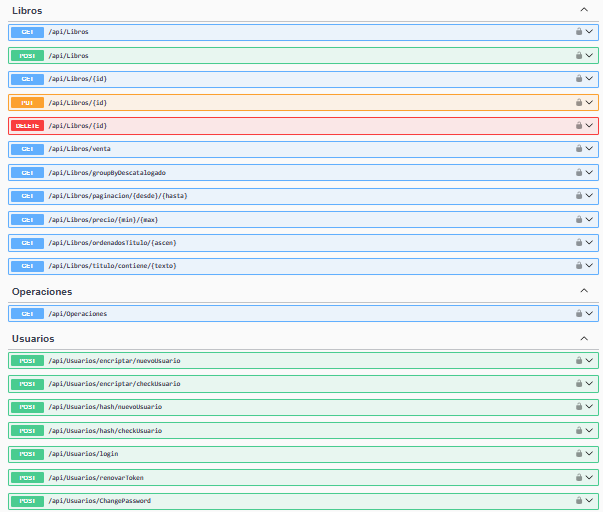
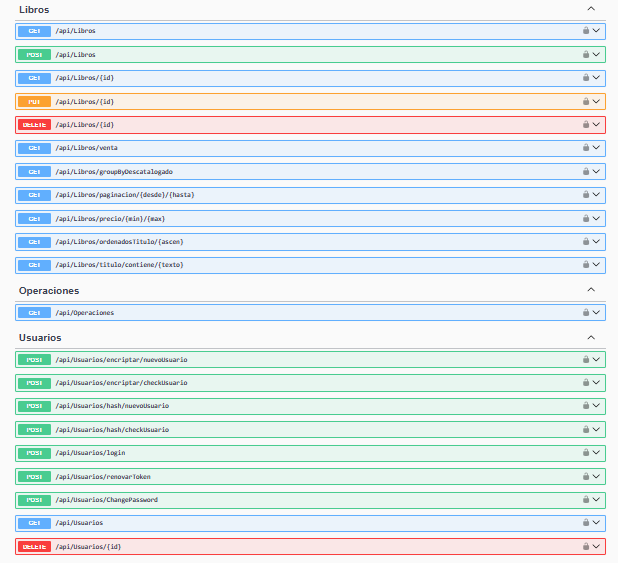
20.02.2025_GetUsuarios+Delete

Changed region(s): [[0.0, 0.0, 1.0, 1.0]]

diff --git a/Biblioteca/Controllers/UsuariosController.cs b/Biblioteca/Controllers/UsuariosController.cs
@@ -203,5 +203,29 @@ namespace Biblioteca.Controllers
             // Devolver un 200 OK indicando que el cambio fue exitoso
             return Ok("Password actualizado correctamente");
         }
+
+        [Authorize]
+        [HttpGet]
+        public async Task<ActionResult> GetUsuarios()
+        {
+            var usuarios = await _context.Usuarios.ToListAsync();
+            return Ok(usuarios);
+        }
+
+        [Authorize]
+        [HttpDelete("{id:int}")]
+        public async Task<ActionResult> Delete(int id)
+        {
+            var usuario = await _context.Usuarios.FirstOrDefaultAsync(x => x.IdUsuario == id);
+
+            if (usuario is null)
+            {
+                return NotFound();
+            }
+
+            _context.Remove(usuario);
+            await _context.SaveChangesAsync();
+            return Ok();
+        }
     }
 }
